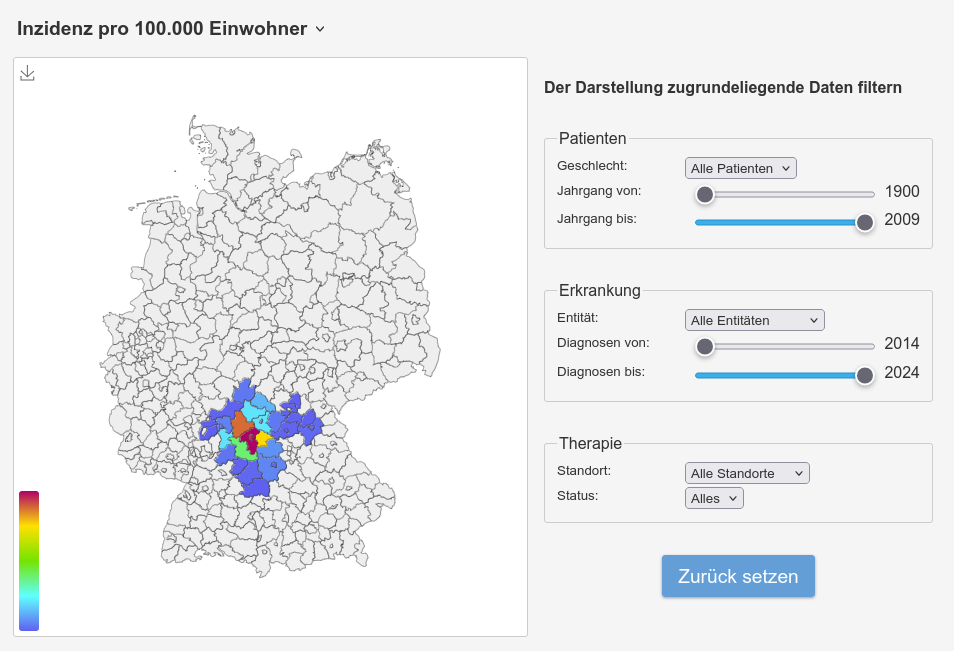
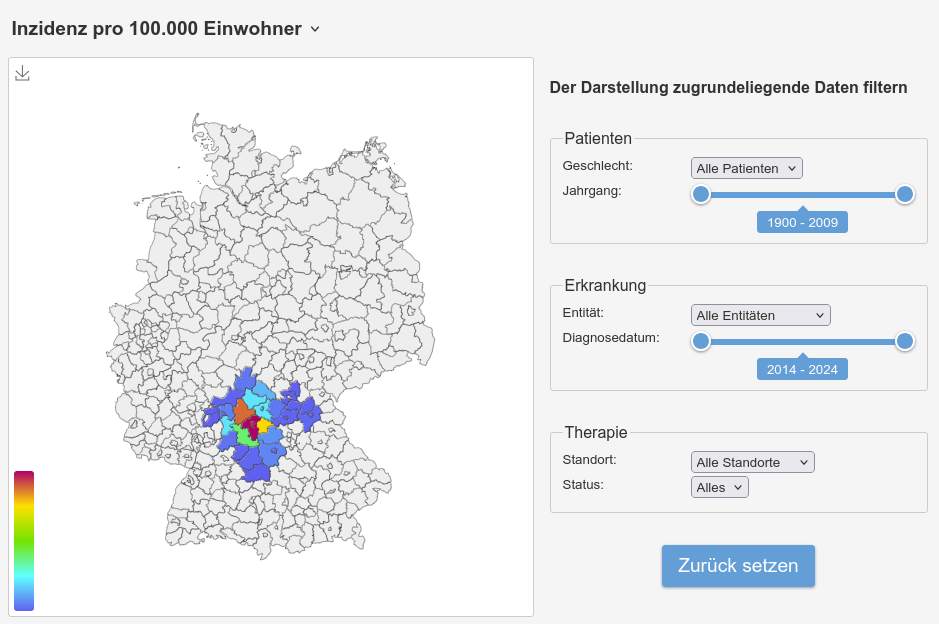
Update layout and screenshot

diff --git a/src/resources/templates/index.html b/src/resources/templates/index.html
@@ -85,7 +85,7 @@
                         </div>
                         <div>
                             <label for="diagnosisyear">
-                                Diagnosezeitraum:
+                                Diagnosedatum:
                             </label>
                             <input-startend-range id="diagnosisyear" start-min="2014" end-min="2024" start-max="2014" end-max="2024"></input-startend-range>
                         </div>

diff --git a/src/resources/assets/style.css b/src/resources/assets/style.css
@@ -213,8 +213,8 @@ main {
 }
 
 #chart {
-    width: 580px;
-    height: 580px;
+    width: 560px;
+    height: 560px;
     border: 1px solid #cccccc;
     border-radius: 3px;
     background-color: white;
@@ -262,7 +262,7 @@ fieldset label {
 }
 
 input-startend-range {
-    width: 10rem;
+    width: 14rem;
 }
 
 .slide-wrapper {
